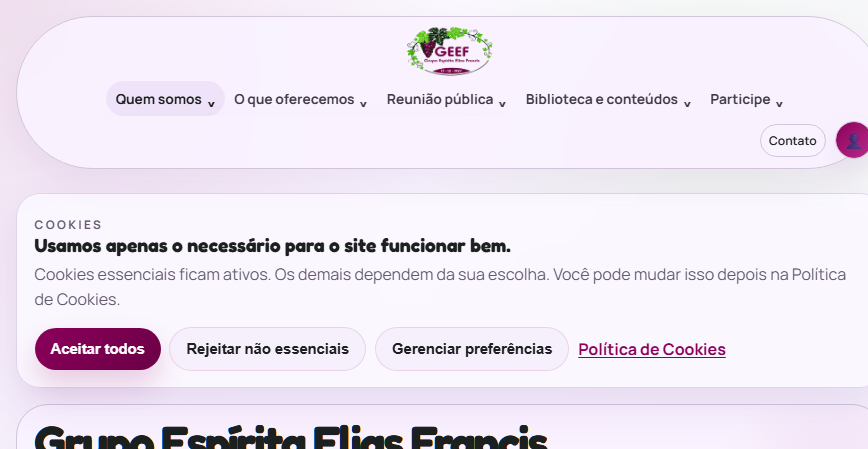
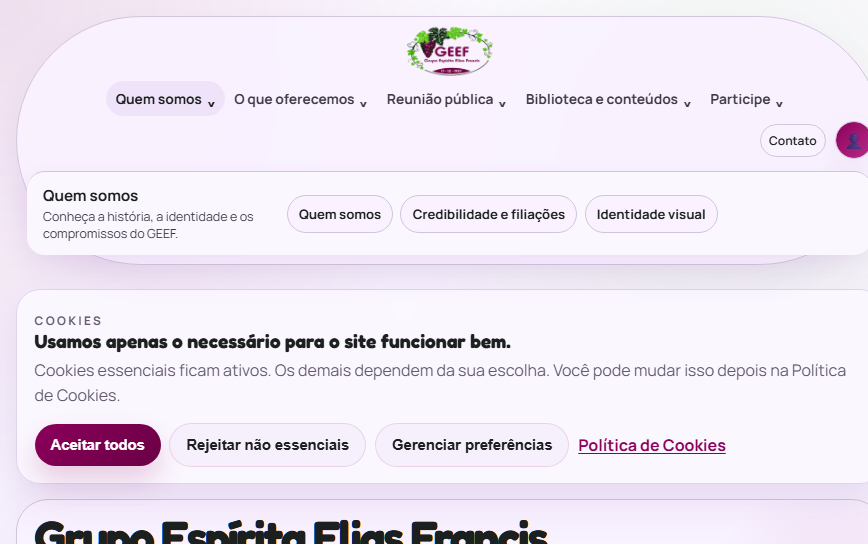
feat: exibir submenu de contexto na navegacao

diff --git a/styles/site-header.css b/styles/site-header.css
@@ -17,6 +17,7 @@
   border: 1px solid var(--border-medium);
   border-radius: 999px;
   box-shadow: 0 14px 30px rgba(124, 63, 163, 0.08);
+  flex-wrap: wrap;
 }
 
 /* Brand Logo */
@@ -131,6 +132,63 @@
 .site-mobile-nav-group {
   display: grid;
   border-bottom: 1px solid var(--border-medium);
+}
+
+.site-context-navigation {
+  flex: 0 1 100%;
+  width: 100%;
+  box-sizing: border-box;
+  min-width: 0;
+  display: grid;
+  grid-template-columns: minmax(13rem, 0.8fr) minmax(0, 2fr);
+  gap: 1rem;
+  align-items: center;
+  margin-top: 0.35rem;
+  padding: 0.8rem 1rem;
+  border-top: 1px solid var(--border-medium);
+  border-radius: 18px;
+  background: var(--surface-strong, #fff8ff);
+  box-shadow: 0 12px 28px rgba(124, 63, 163, 0.1);
+  animation: site-menu-reveal 180ms ease-out both;
+}
+
+.site-context-navigation-copy strong {
+  display: block;
+  color: var(--text-primary);
+  font-size: 0.95rem;
+}
+
+.site-context-navigation-copy p {
+  margin: 0.2rem 0 0;
+  color: var(--text-muted);
+  font-size: 0.78rem;
+  line-height: 1.35;
+}
+
+.site-context-navigation-links {
+  display: flex;
+  flex-wrap: wrap;
+  gap: 0.45rem;
+}
+
+.site-context-navigation-link {
+  display: inline-flex;
+  align-items: center;
+  min-height: 2.35rem;
+  padding: 0.45rem 0.7rem;
+  border: 1px solid var(--border-medium);
+  border-radius: 999px;
+  color: var(--text-primary);
+  background: var(--surface-primary);
+  text-decoration: none;
+  font-size: 0.82rem;
+  font-weight: 700;
+}
+
+.site-context-navigation-link:hover,
+.site-context-navigation-link:focus-visible {
+  color: var(--uva-700);
+  background: var(--surface-primary-hover);
 }
 
 .site-mobile-nav-group-trigger {
@@ -784,6 +842,10 @@
 
   :root.dark .site-header-brand-logo::before {
     inset: -8px -12px -8px -12px;
+  }
+
+  .site-context-navigation {
+    display: none;
   }
 }
 

diff --git a/components/site-header.tsx b/components/site-header.tsx
@@ -76,6 +76,7 @@ export function SiteHeader({
       ],
     },
   ];
+  const activeGroup = navGroups.find((group) => group.key === openGroup);
 
   return (
     <header className="site-header">
@@ -103,16 +104,6 @@ export function SiteHeader({
             >
               {group.label}<span aria-hidden="true">⌄</span>
             </button>
-            {openGroup === group.key && (
-              <div className="site-nav-group-dropdown">
-                <p>{group.description}</p>
-                {group.links.map((item) => (
-                  <Link key={`${group.key}-${item.href}`} href={item.href} className="site-nav-dropdown-item" onClick={() => setOpenGroup(null)}>
-                    {item.label}
-                  </Link>
-                ))}
-              </div>
-            )}
           </div>
         ))}
       </nav>
@@ -153,6 +144,22 @@ export function SiteHeader({
         avatarUrl={avatarUrl}
         hasAdminAccess={hasAdminAccess}
       />
+
+      {activeGroup && !mobileMenuOpen && (
+        <section className="site-context-navigation" aria-label={`Opções de ${activeGroup.label}`}>
+          <div className="site-context-navigation-copy">
+            <strong>{activeGroup.label}</strong>
+            <p>{activeGroup.description}</p>
+          </div>
+          <nav className="site-context-navigation-links">
+            {activeGroup.links.map((item) => (
+              <Link key={`context-${activeGroup.key}-${item.href}`} href={item.href} className="site-context-navigation-link" onClick={() => setOpenGroup(null)}>
+                {item.label}
+              </Link>
+            ))}
+          </nav>
+        </section>
+      )}
     </header>
   );
 }
